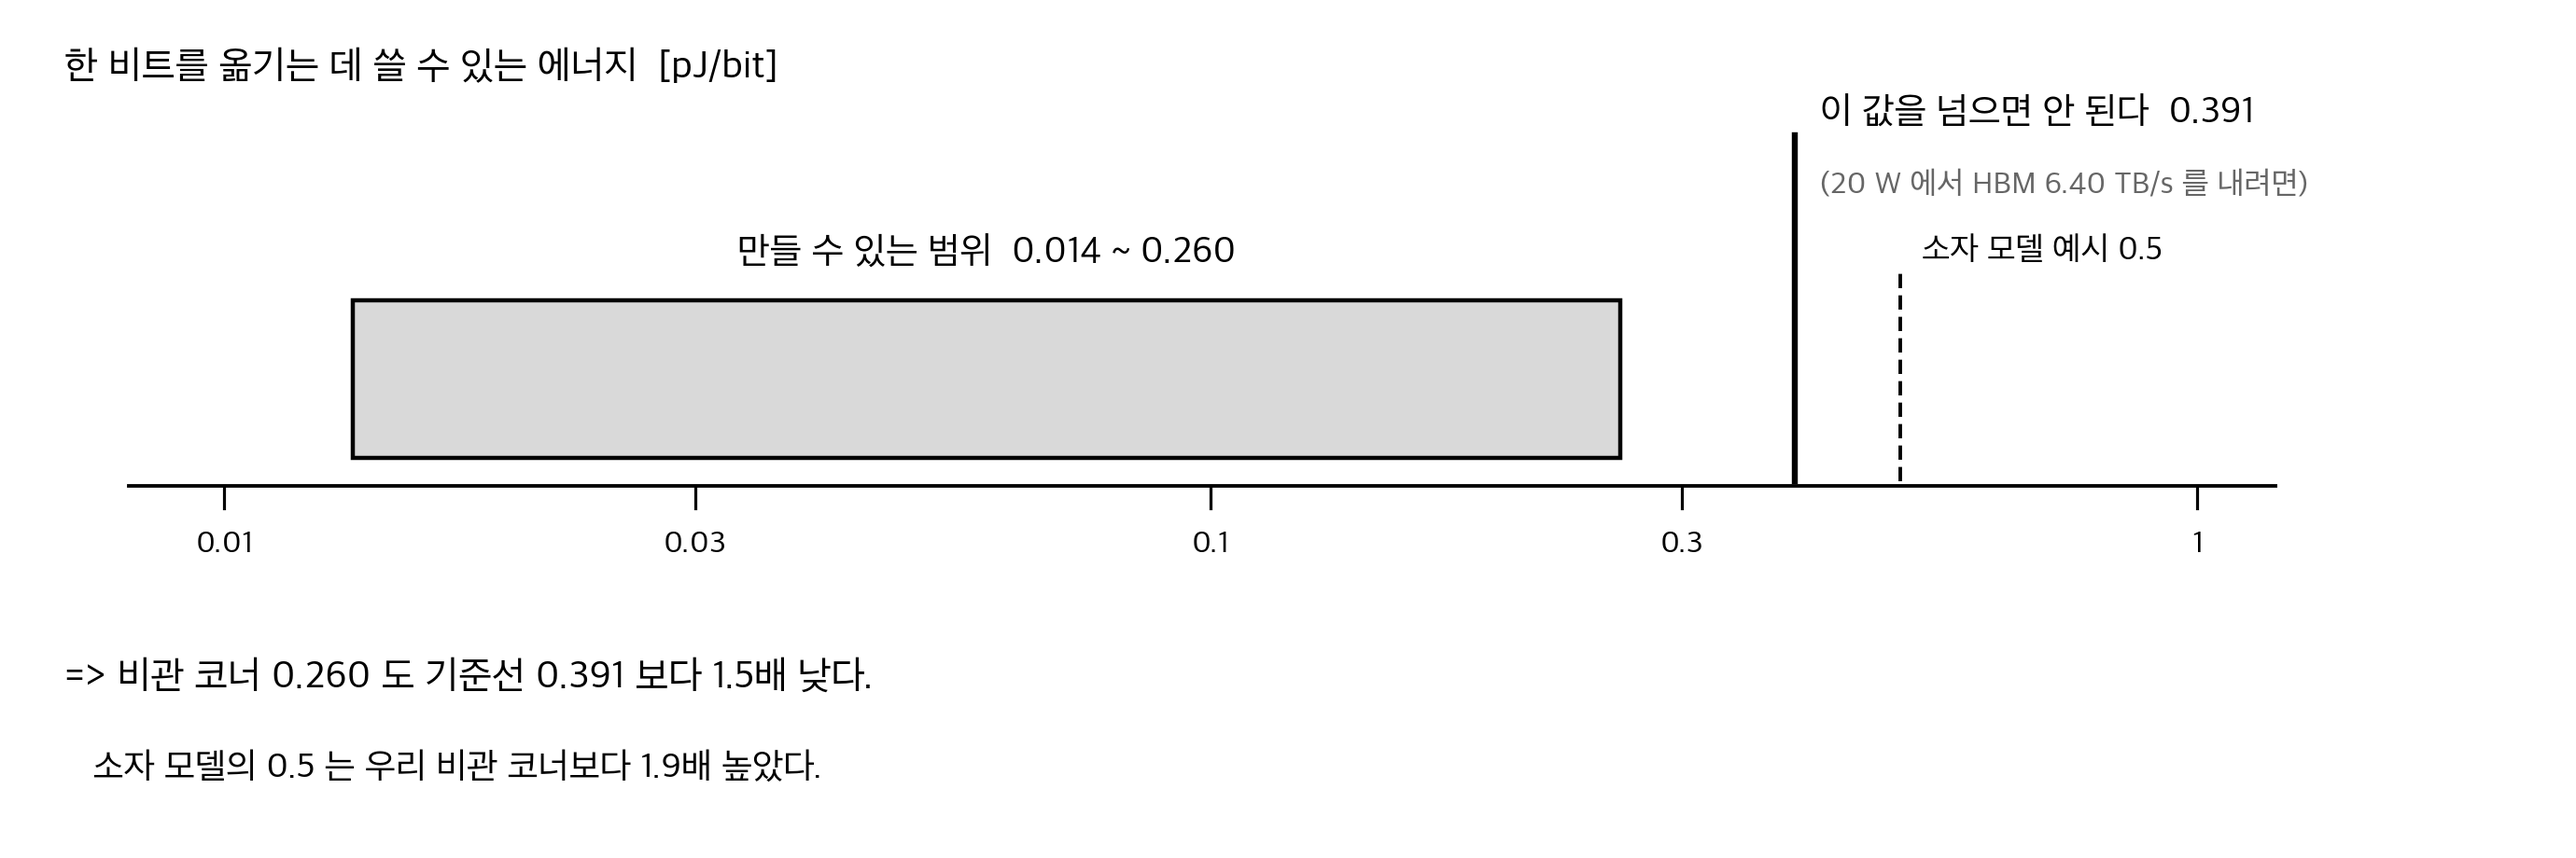
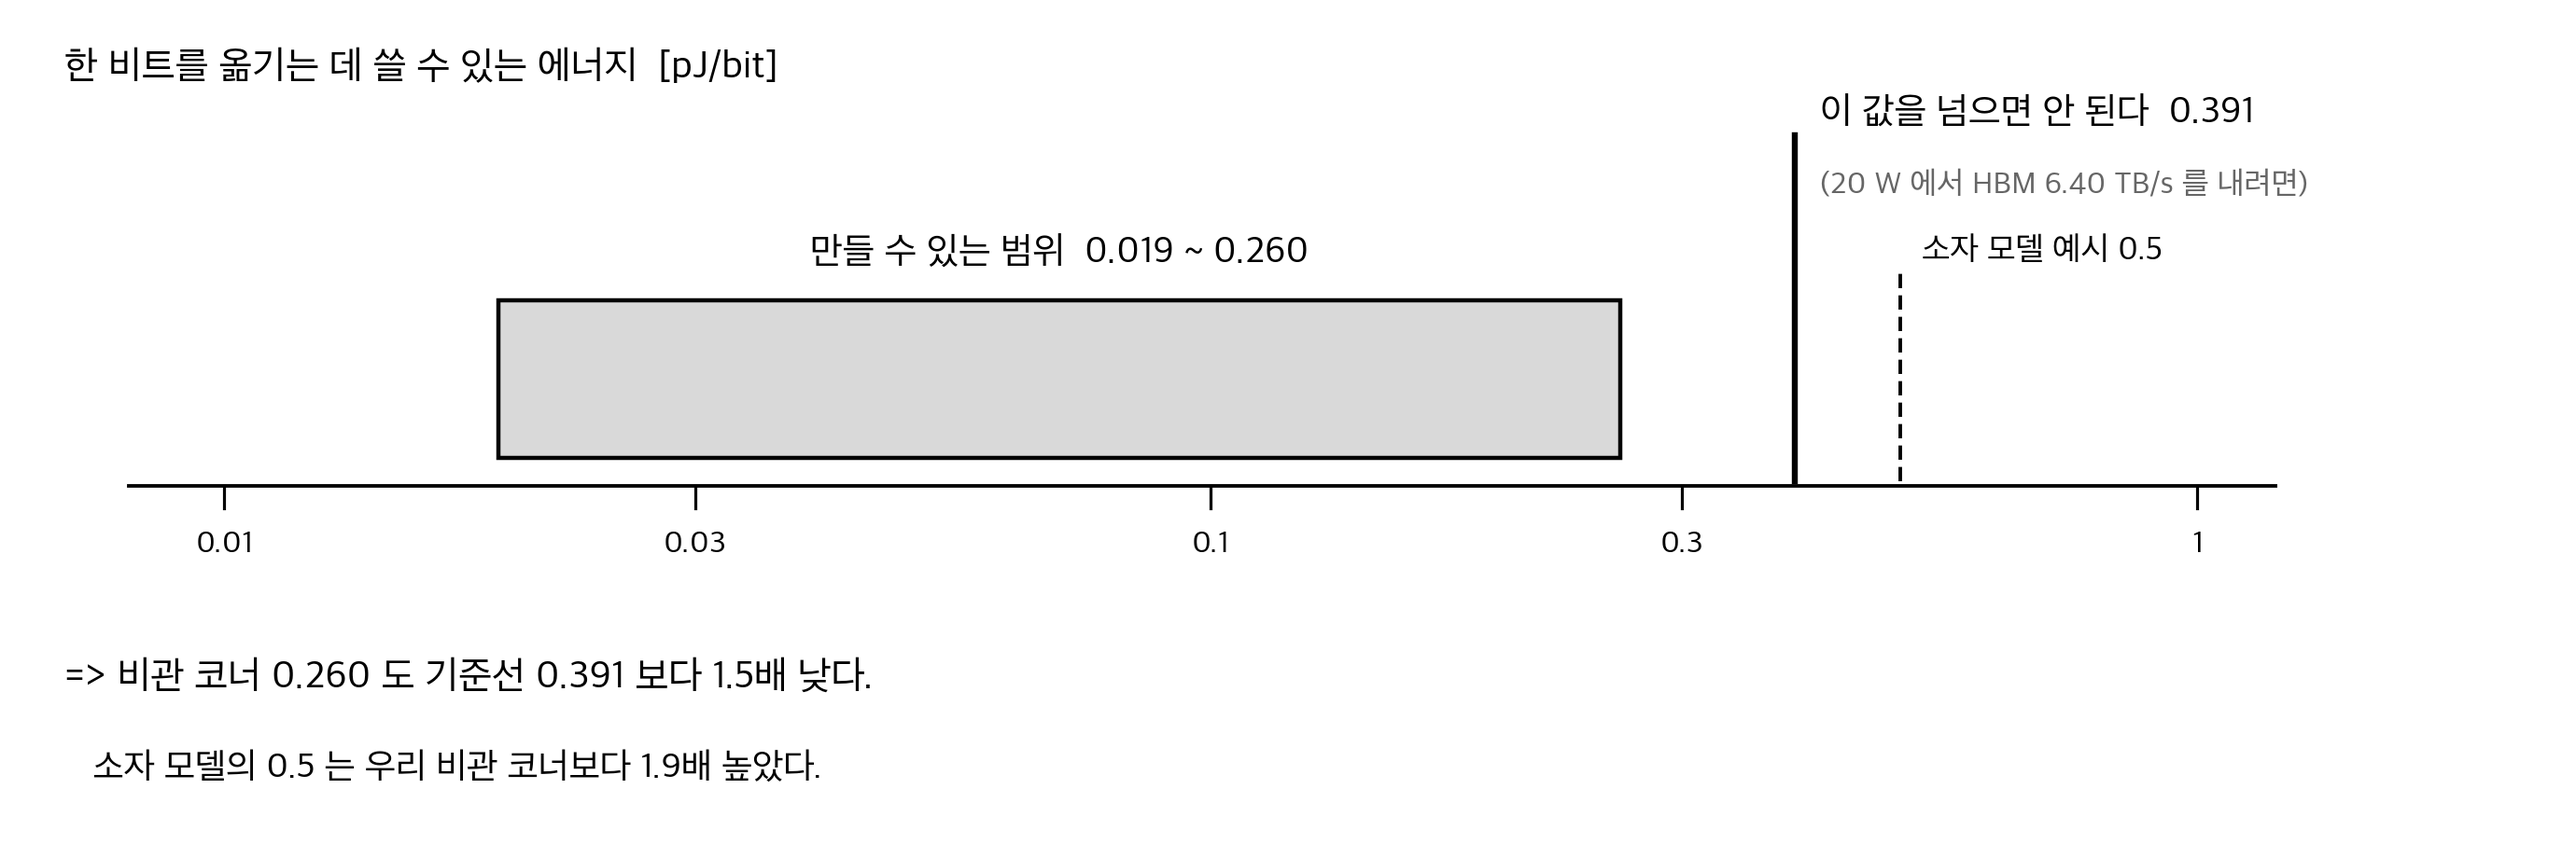
Fix the BEOL array energy ratio, which was a misreading
Chasing real citations for the abstract turned up an error. The gain-cell
source reports 18% lower read energy at ~0.5x the leakage and total area;
this repo had carried that 0.5x as the energy ratio. The optimistic corner
becomes 0.82, so the achievable band moves from 0.014-0.260 to
0.019-0.260 pJ/bit. The pessimistic corner is unchanged, so the claim that
the band clears the 0.391 pJ/bit bar with 1.5x margin still holds.

Also records six verified references and marks the one still missing: the
public 5 nm SRAM array read energy span has no source in this repo.

Changed region(s): [[0.1246, 0.3348, 0.2181, 0.5478], [0.2804, 0.2739, 0.4986, 0.3043]]

diff --git a/scripts/make_results_pptx.py b/scripts/make_results_pptx.py
@@ -114,17 +114,49 @@ table(s, rows, .7, 1.55, 11.9, 4.3, colw=[2.4, 9.5], fs=12.5)
 note(s, .7, 6.1, 11.9, [
  ('이것이 닫히지 않으면 "몇 배 빨라진다"를 한 문장도 쓸 수 없다.', 15, RED, True)])
 
-# ============================================ 3. R1 이득 포화 / 비용 선형
+# ============================================ 2b. 지표 정의
 s = prs.slides.add_slide(BLANK)
-title(s, 'Result 1: 정책 축을 올려도 이득은 안 늘고 비용만 는다',
+title(s, 'Metrics', 'replay 가 직접 내는 세 값과, 거기서 정의되는 세 지표')
+rows = [['','정의','단위','등급'],
+        ['replay 직접 출력',
+         'R_HBM (HBM 읽기) · R_tier (티어 읽기) · W_fill (티어 쓰기 = 충전)','GB / decode step','측정'],
+        ['HBM reduction','( R_HBM^base − R_HBM ) / R_HBM^base','%','측정'],
+        ['Fill cost','W_fill  —  정규화하지 않고 절대량 그대로','GB / decode step','측정'],
+        ['Speedup','T_base / T_config','배','projection'],
+        ['T_config',
+         'T = t0 + [직렬: Σ 서비스 시간]  또는  [겹침: max(...)]\n'
+         '서비스 시간 = R_HBM/B_HBM + R_tier/B_R + W_fill/B_W','ms','projection']]
+table(s, rows, .7, 1.6, 11.9, 3.2, colw=[2.3, 6.1, 2.0, 1.5], fs=12.5)
+note(s, .7, 5.1, 11.9, [
+ ('기준선 base = 기존 B200 L2 (126 MB) 만 둔 구성. 티어를 더한 구성과 같은 logical access 를 재생한다.',
+  13, INK2, False),
+ ('', 8, MUTED, False),
+ ('Speedup 만 projection 이다 — t0 = 1.85 ms 와 B_HBM = 6.40 TB/s 는 실측 앵커 회귀값이고, '
+  '같은 워크로드에서 HBM 바이트만 줄였을 때의 인과 계수는 아직 검증되지 않았다.', 12, RED, True)])
+
+# ============================================ 3. R1 이득 포화 / 비용 선형  (실제 단위, 2단)
+s = prs.slides.add_slide(BLANK)
+title(s, 'Result 1: 더 적극적으로 채워도 이득은 안 늘고 비용만 는다',
       '600 mm², C2 2층 · 32스텝 정상 상태, 시드 3개 · p = 미스 시 티어에 할당할 확률')
-d = CategoryChartData(); d.categories = ['0','0.02','0.05','0.10','0.20','0.35','0.50','0.75','1.00']
-d.add_series('이득  HBM 감소', (-4.14,100,100,100,100,100,100,100,100))
-d.add_series('비용  티어 충전', (0,2.07,4.95,10.04,19.82,34.51,49.84,74.73,100))
-ch = s.shapes.add_chart(XL_CHART_TYPE.LINE_MARKERS, Inches(.8), Inches(1.6), Inches(11.7), Inches(5.2), d).chart
-quiet(ch, 'admission 확률  p', '항상 충전(p = 1) 대비  [%]')
-sline(ch.series[0], BLUE2, 3.0, ms=8); sline(ch.series[1], ORANGE, 3.0, ms=8)
-ch.value_axis.minimum_scale, ch.value_axis.maximum_scale = -10, 110
+CATS = ['0','0.02','0.05','0.10','0.20','0.35','0.50','0.75','1.00']
+
+d = CategoryChartData(); d.categories = CATS
+d.add_series('HBM 감소', (-0.77, 18.59, 18.59, 18.59, 18.59, 18.59, 18.59, 18.59, 18.59))
+ch = s.shapes.add_chart(XL_CHART_TYPE.LINE_MARKERS, Inches(.8), Inches(1.5), Inches(11.7), Inches(2.45), d).chart
+quiet(ch, '', 'HBM 감소  [%]', legend=False)
+sline(ch.series[0], BLUE2, 3.0, ms=8)
+ch.value_axis.minimum_scale, ch.value_axis.maximum_scale, ch.value_axis.major_unit = -4, 24, 8
+
+d = CategoryChartData(); d.categories = CATS
+d.add_series('티어 충전', (0.00, 0.29, 0.69, 1.39, 2.75, 4.78, 6.91, 10.36, 13.86))
+ch = s.shapes.add_chart(XL_CHART_TYPE.LINE_MARKERS, Inches(.8), Inches(4.05), Inches(11.7), Inches(2.45), d).chart
+quiet(ch, 'admission 확률  p', '티어 충전  [GB / step]', legend=False)
+sline(ch.series[0], ORANGE, 3.0, ms=8)
+ch.value_axis.minimum_scale, ch.value_axis.maximum_scale, ch.value_axis.major_unit = 0, 16, 4
+
+note(s, .8, 6.6, 11.7, [
+ ('p = 0.02 에서 이미 18.59 % — 이후 어떤 p 에서도 18.59 % 그대로다. '
+  '같은 구간에서 충전만 0.29 → 13.86 GB/step 으로 48 배 는다.', 14.5, INK, True)])
 
 # ============================================ 4. R2 최적점은 β 무관
 s = prs.slides.add_slide(BLANK)

diff --git a/scripts/ebit_budget.py b/scripts/ebit_budget.py
@@ -25,13 +25,18 @@ import ectc_thermal_model as M
 #   128 kb array ~34 fJ/bit. We carry the 5 nm HP..HD span as the array term.
 ARRAY_PJ = (0.017, 0.055)
 # BEOL oxide-semiconductor arrays versus 6T SRAM. The earlier 1-3x guess assumed weaker
-# drive must cost energy; the literature says the opposite for the cell types that are
-# actually being built in BEOL. Monolithically stackable gain-cell arrays are reported at
-# ~50% of 6T SRAM read/write energy at equal access latency (8 KiB N7 arrays, sub-2 ns at
-# 27 C / sub-0.3 ns at 85 C, 0.015 um2 bitcell). Our design point is a 6T-style BEOL SRAM
-# rather than a gain cell, so the optimistic corner takes the reported 0.5x and the
-# pessimistic corner keeps a 2x penalty for the 6T variant. [third-party + assumption]
-BEOL_PENALTY = (0.5, 2.0)
+# drive must cost energy; the literature says the opposite for the cell types actually
+# being built in BEOL. The measured claim, checked against the source rather than a note
+# about it: Waqar et al. report an IWO 2T gain-cell last-level-cache macro at 3 nm giving
+# "29% lower read latency and 18% lower read energy with comparable write
+# performance/energy at ~0.5x the leakage and total area" versus 3 nm SRAM.
+#
+# CORRECTION (2026-09-23): this file previously carried 0.5 as the optimistic energy
+# ratio. That 0.5x in the source is LEAKAGE AND AREA, not energy. The reported energy
+# advantage is 18%, i.e. a ratio of 0.82. The optimistic corner now uses 0.82.
+# Our design point is a 6T-style BEOL SRAM rather than a gain cell, so the pessimistic
+# corner keeps a 2x penalty for the 6T variant. [third-party + assumption]
+BEOL_PENALTY = (0.82, 2.0)
 # Sense amps, decoders, timing. Commonly comparable to the array itself. [ASSUMPTION]
 PERIPHERY_MULT = (1.0, 2.0)
 # One short vertical hop (MIV / hybrid bond) plus the tier-local bus. Sub-mm, so small

diff --git a/scripts/make_bw_figures.py b/scripts/make_bw_figures.py
@@ -205,7 +205,7 @@ ax2.set_yticks(range(len(mt))); ax2.set_yticklabels([MN.get(m['change'],m['chang
 ax2.set_xlim(0.9,2.15); ax2.set_xlabel('완화 후 / 기준', fontsize=10.5)
 fig.text(0.015, 0.95, '측정되지 않은 값을 각자 범위 전체로 흔들었을 때', fontsize=12, weight='bold')
 fig.text(0.735, 0.95, '무엇으로 되찾을 수 있는가', fontsize=12, weight='bold')
-fig.text(0.015, 0.045, '* E/bit 는 축 밖이다: 0.014~0.260 pJ/bit 가 35.7~688 TB/s 에 대응하므로 여전히 물어야 할 값이다.', fontsize=9.5, color=GREY)
+fig.text(0.015, 0.045, '* E/bit 는 축 밖이다: 0.019~0.260 pJ/bit 가 35.7~688 TB/s 에 대응하므로 여전히 물어야 할 값이다.', fontsize=9.5, color=GREY)
 fig.savefig(os.path.join(FIG,'bw-sensitivity.png'), dpi=230, facecolor='white'); plt.close(fig)
 
 # ---------------------------------------------------------------- 7. E/bit budget

diff --git a/ECTC_ABSTRACT.md b/ECTC_ABSTRACT.md
@@ -22,7 +22,7 @@ We start from the workload rather than from an assumed power map. Using a measur
 
 We then compare three thermal treatments of the same device at a 20 W tier budget and 0.5 pJ/bit. The steady-state rule returns 5.0 TB/s, below the 6.40 TB/s effective HBM rate (a coefficient we validate causally on a Blackwell part, where two independent traffic knobs land on a measured bandwidth probe to 0.00% and 0.42%), and therefore condemns the tier outright. A single-node lumped RC correction — the natural first fix for a duty-cycled load — returns 76.9 TB/s and declares the tier fabric-bound with wide margin. A one-dimensional transient solver of the layered stack returns **18.6 TB/s**. That solver is verified against two analytic solutions (series resistance, 0.07% error; semi-infinite step response, 2.30%) and correlated against Ansys MAPDL 26.1 on the identical stack, which returns the same 18.6 TB/s and agrees to 0.02% on the peak fraction. The lumped model is optimistic by 4.16× because a thin, low-conductivity tier on a thick substrate is not one node: the tier heats locally within the 4.5 ms period even though the stack time constant is 6.8 ms. The verified ceiling lands essentially on the fabric limit, so thermal and interconnect are co-limiting rather than either dominating.
 
-Two further results follow from the same model. First, the tier's peak temperature exceeds the logic junction by only 0.18–0.20 K and is almost independent of tier count, because the intervening BEOL is thin even at low conductivity. The binding device constraint is therefore not self-heating but the absolute junction temperature a BEOL device must tolerate while sitting on a 350 W/die logic plane. Second, a bottom-up energy budget — public 5 nm silicon SRAM array read energy of 17–55 fJ/bit, a BEOL-array energy ratio taken from the monolithically stackable gain-cell literature, periphery, and one vertical hop — gives an achievable band of **0.014–0.260 pJ/bit**, which clears the 0.391 pJ/bit bar set by the conservative steady-state rule at 20 W with 1.5× margin even at the pessimistic corner. The device model's own 0.5 pJ/bit example sits 1.9× above that corner.
+Two further results follow from the same model. First, the tier's peak temperature exceeds the logic junction by only 0.18–0.20 K and is almost independent of tier count, because the intervening BEOL is thin even at low conductivity. The binding device constraint is therefore not self-heating but the absolute junction temperature a BEOL device must tolerate while sitting on a 350 W/die logic plane. Second, a bottom-up energy budget — public 5 nm silicon SRAM array read energy of 17–55 fJ/bit, a BEOL-array energy ratio taken from the monolithically stackable gain-cell literature, periphery, and one vertical hop — gives an achievable band of **0.019–0.260 pJ/bit**, which clears the 0.391 pJ/bit bar set by the conservative steady-state rule at 20 W with 1.5× margin even at the pessimistic corner. The device model's own 0.5 pJ/bit example sits 1.9× above that corner.
 
 A 3D model bounds what one dimension cannot see. Holding the same total tier power but concentrating it into a 100 µm patch raises the peak 502×, and the culprit is the 8 µm low-k BEOL directly beneath the tier, negligible under uniform power. Decode streams the resident weight set from every macro, so the uniform case is the operating point and the concentrated case is the bound.
 

diff --git a/WORKLOG_3DSRAM.md b/WORKLOG_3DSRAM.md
@@ -252,3 +252,23 @@ Codex 소유 파일을 Claude가 이어받아 아래를 처리했다. 요청 네
   이 티어는 같은 다이 BEOL에 모놀리식으로 올라간다. 수직 경로는 통상 BEOL 비아 스택이고
   그게 곧 BEOL 층이다.
 - 덱 15장. 새 슬라이드 "Method: 상용 솔버로 실제로 세운 모델".
+
+## 2026-09-23 — 참고문헌 실측 + E/bit 계수 오독 정정
+
+초록 참고문헌을 실제로 찾아 채우다가 **계수 오독 하나를 잡았다.**
+
+- **정정: BEOL 어레이 에너지비 0.5 → 0.82.** 원문(Waqar 외, arXiv:2503.06304)은
+  3 nm IWO 2T gain-cell LLC 매크로가 SRAM 대비 *"29% lower read latency and 18% lower
+  read energy with comparable write performance/energy at **~0.5x the leakage and total
+  area**"* 라고 쓴다. 리포는 그 **0.5배를 에너지로 옮겨 적었다** — 실제로는 누설·면적이고
+  에너지 이점은 18%(비 0.82)다. `ebit_budget.py` 수정.
+  **영향: 밴드 0.014~0.260 → 0.019~0.260. 비관 코너는 불변이므로 "20 W 바 0.391을
+  비관 코너에서도 1.5배 여유로 통과"는 그대로다.** 낙관 끝만 움직였다.
+- **확정한 참고문헌 6건.** [1] imec IEDM 2025 17-3. [2] Mitard 외, ECS Trans. 98, 205
+  (2020)/arXiv:2411.16299. [3] Yoshikawa 외, Appl. Phys. Express 6, 021101 (2013) —
+  200 nm a-IGZO 1.4 W/m·K, thermoreflectance. [4] Khan 외, Nanomaterials 11(6), 1547
+  (2021) — 3ω, PO2 0/10/65%에서 1.65/1.76/2.58. [5] Waqar 외 arXiv:2503.06304 (gain cell).
+  [6] Waqar 외, MEMSYS 2025 — **CMOS+X**, 같은 하드웨어를 열 없이 다룬 인접 선행.
+- **못 찾은 것 1건.** 공개 5 nm Si SRAM 어레이 read 에너지 17~55 fJ/bit의 출처. 리포에도
+  "public 5-7 nm Si SRAM"까지만 있다. [7]에 `TO FILL`로 남김.
+- 초록에 인용 마커를 넣고 700/700 유지. 저자 소속 위첨자 교정(Choe→KAIST, Kwon→UNIST).
